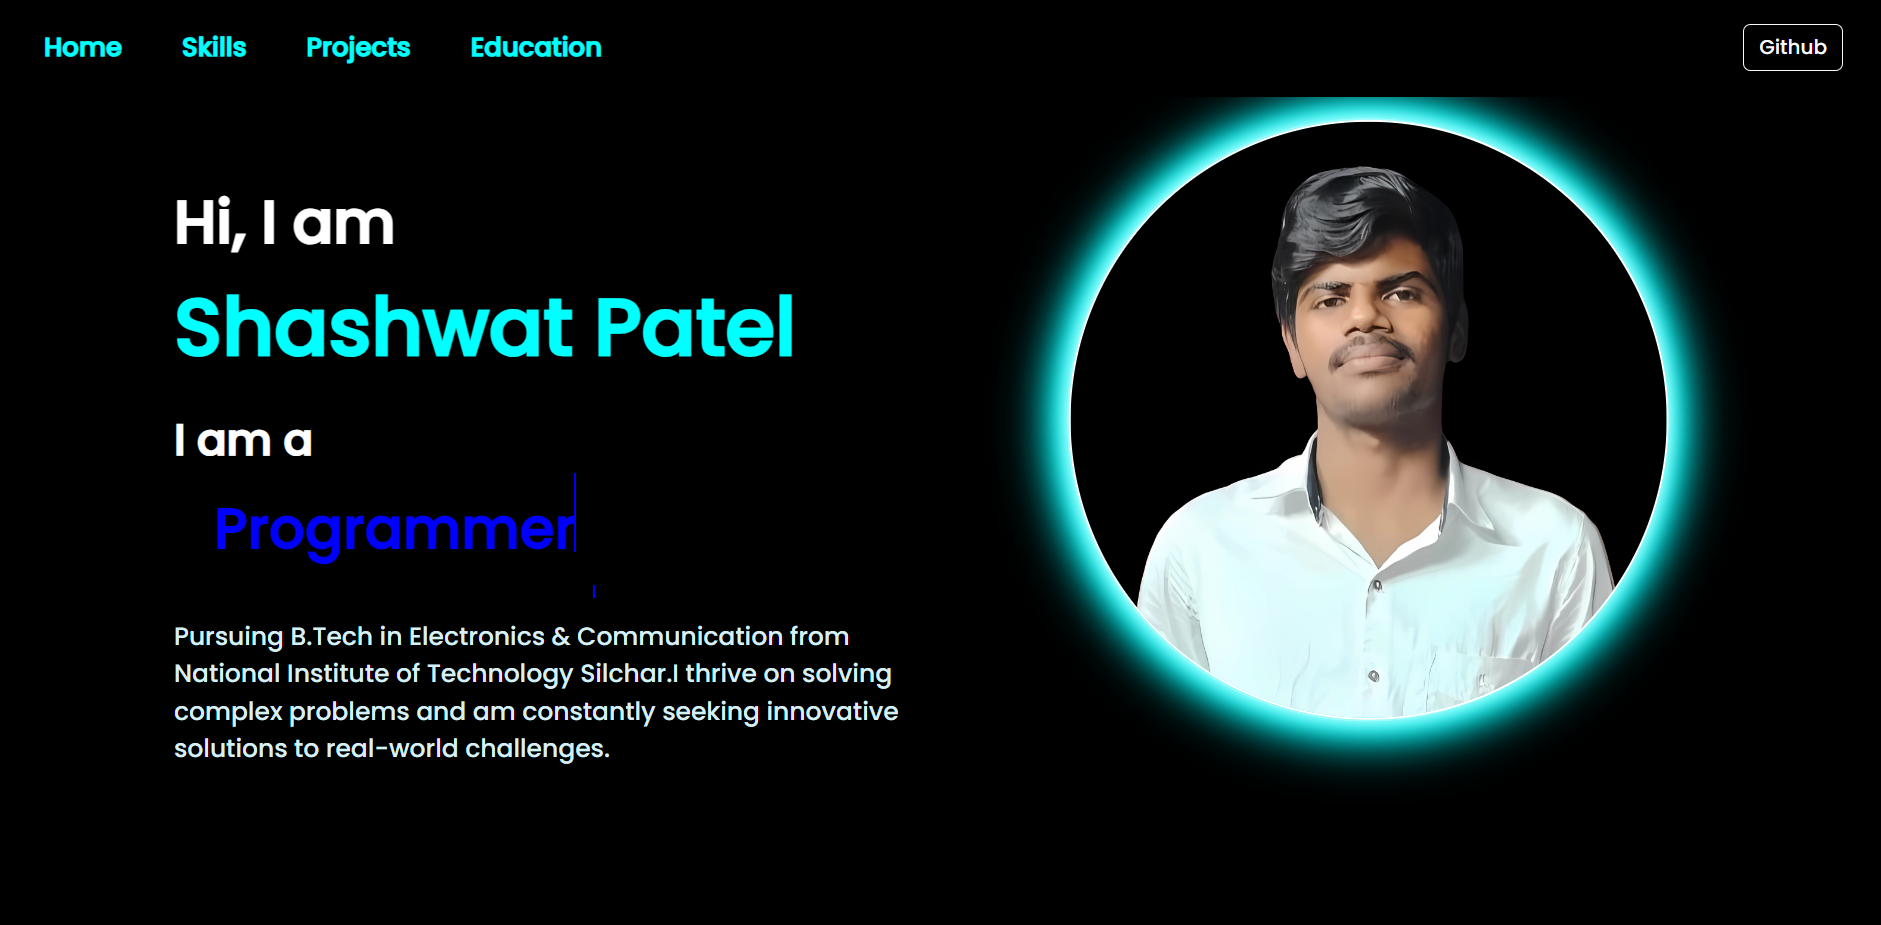
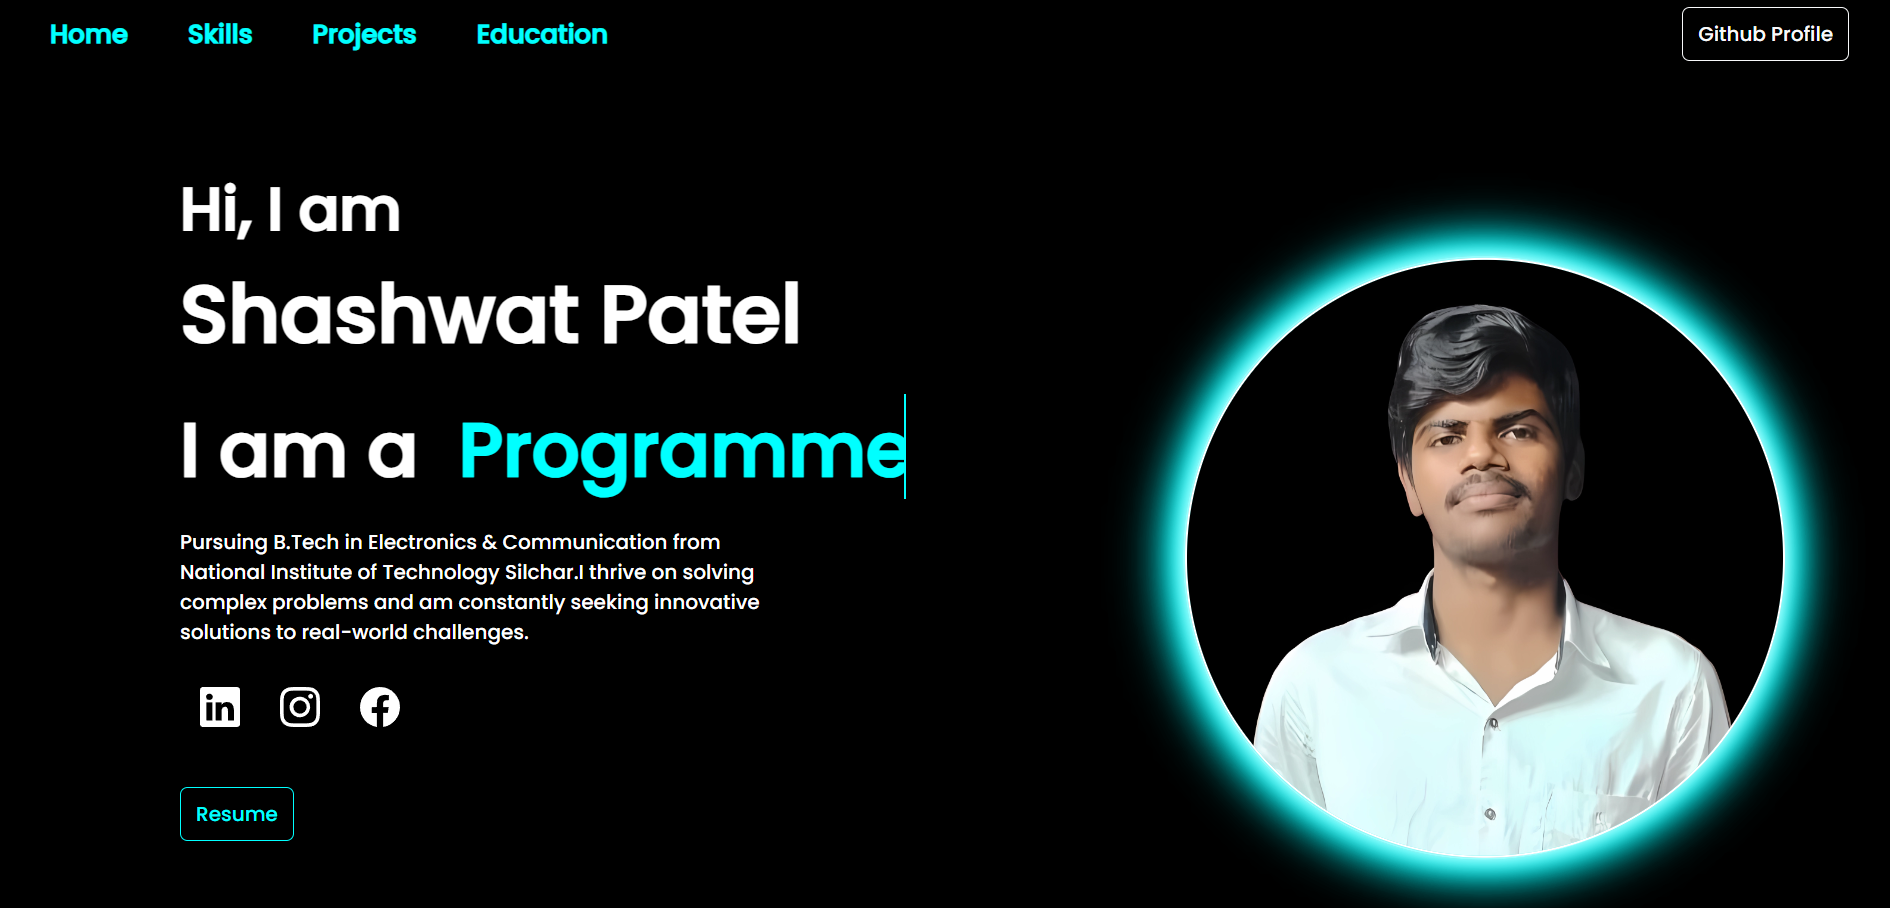
Add files via upload

diff --git a/index.html b/index.html
@@ -18,7 +18,7 @@
       <div><a href="#Projects">Projects</a> </div>
       <div><a href="#Education">Education</a></div>
    </div>
-  <div class="logo"><a href="https://github.com/Maverick-04507" ><button type="button" class="btn btn-outline-light" style="height: 2.7rem;">Github Profile</button></a></div>
+  <div class="logo"><a href="https://github.com/Maverick-04507" ><button type="button" class="btn btn-outline-light" style="height: 2.7rem; box-shadow: 0 0 1rem white,0 0 1rem aqua;">Github Profile</button></a></div>
 </div>
 <section id="Home" class="section1">
     <div class="main-container">
@@ -132,11 +132,11 @@
                 </div>
             </div>
             <div class="card" style="width: 24rem; height: 28rem;">
-                <img src="Spotify Clone.png" class="card-img-top" alt="...">
-                <div class="card-body">
-                  <h5 class="card-title" style="color: white;">Clone</h5>
-                  <p class="card-text">Some quick example text to build on the card title and make up the bulk of the card's content.</p>
-                  <a href="#" class="btn btn-outline-light">View Page</a>
+                <img src="City Guide.png" class="card-img-top" alt="Lucknow">
+                <div class="card-body" >
+                  <h5 class="card-title" style="color: white;">City Guide</h5>
+                  <p class="card-text" style="color: white; opacity: 40%;">This webpage suggests its user about places to visit,eat or stay on his visit to a new city</p>
+                  <a href="https://maverick-04507.github.io/html-cityguide/" class="btn btn-outline-light">View Page</a>
                 </div>
             </div>
         </div>

diff --git a/styles.css b/styles.css
@@ -184,9 +184,7 @@ body{
     0 0 1rem white,
     inset 0 0 1rem white,
     0 0 2rem aqua,
-    inset 0 0 2rem aqua,
-    0 0 3rem aqua,
-    inset 0 0 3rem aqua;
+    inset 0 0 2rem aqua;
 }
 .static-text .intro-text{
     font-size: 20px;
